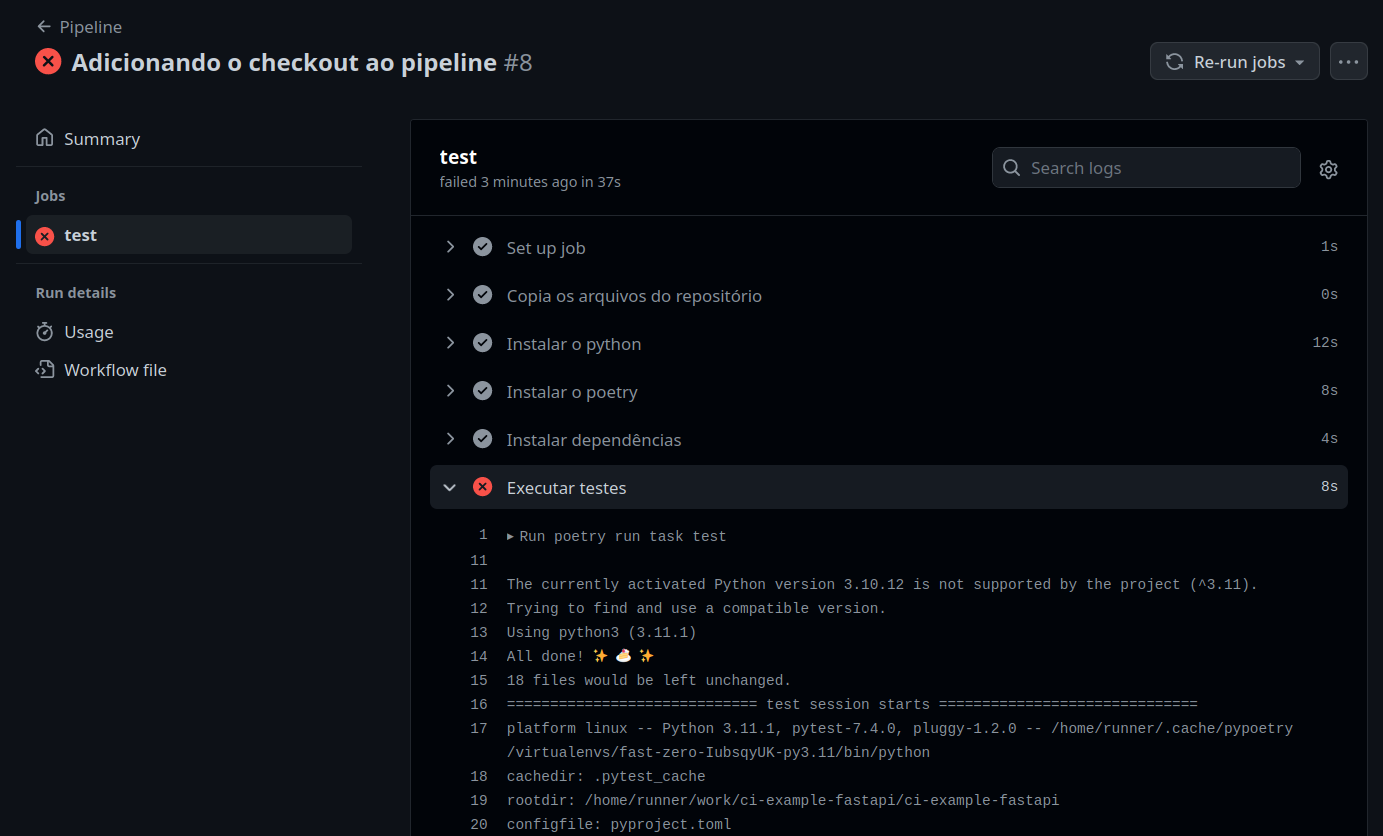
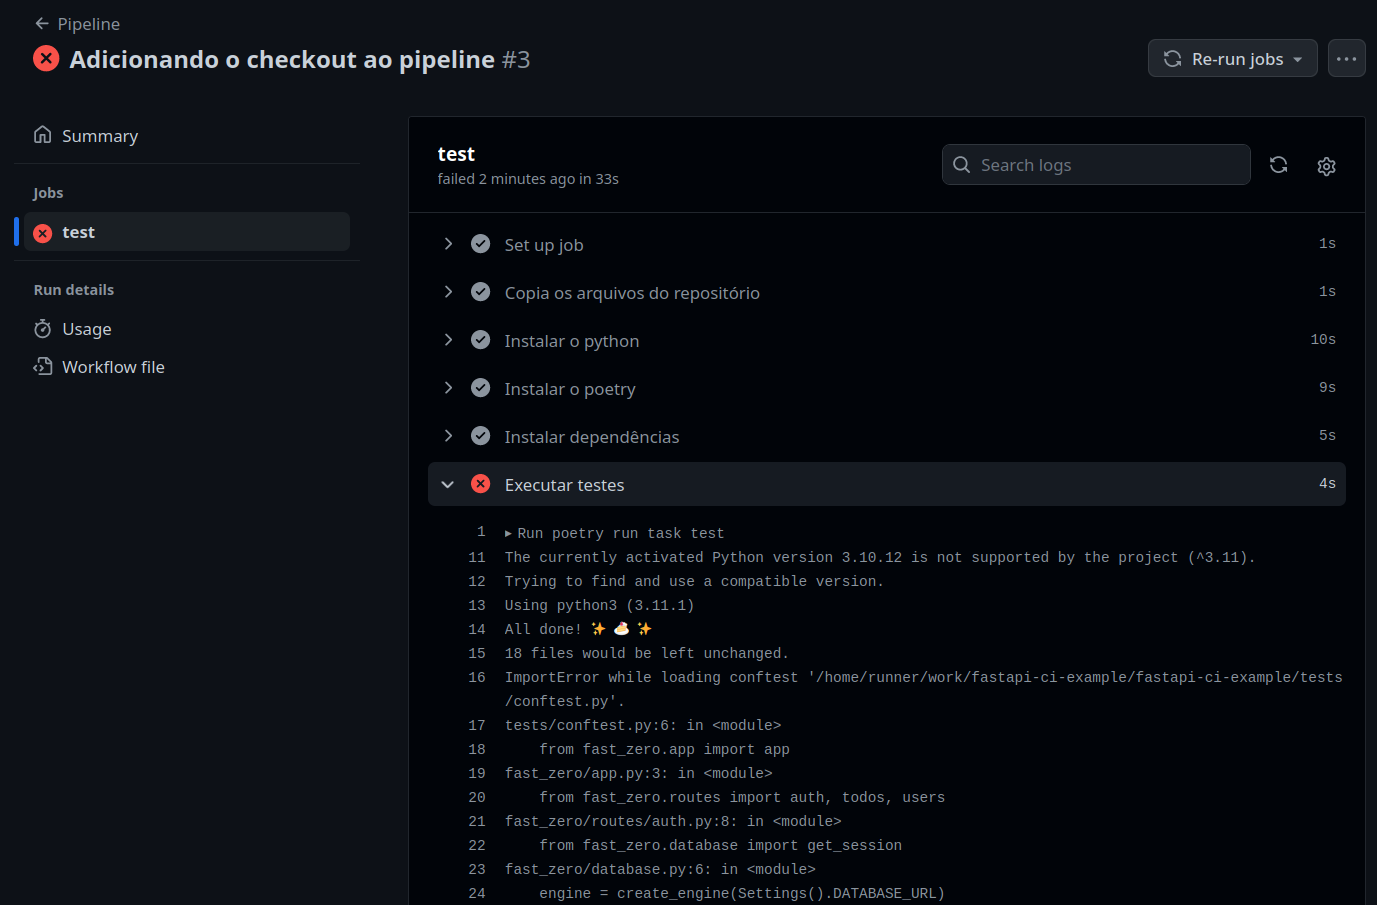
[WIP] - Atualizando as capturas de tela da aula 10
relates #34

diff --git a/aulas/10.md b/aulas/10.md
@@ -1,4 +1,4 @@
-# [WIP] Automatizando os testes com Integração Contínua (CI)
+# Automatizando os testes com Integração Contínua (CI)
 
 Tópico de manutenção: https://github.com/dunossauro/fastapi-do-zero/issues/34
 
@@ -116,7 +116,7 @@ Isso nos mostra que tudo que configuramos no arquivo `pipelines.yaml` foi execut
 
 Agora que temos essa visão geral de como o Actions monta e executa workflows, podemos nos concentrar em construir o nosso ambiente.
 
-### [WIP] Construção do nosso ambiente de CI
+### Construção do nosso ambiente de CI
 
 Para executar nossos testes no workflow, precisamos seguir alguns passos essenciais:
 
@@ -199,8 +199,6 @@ git push
 
 Com isso, o erro anterior deve ser resolvido e teremos os testes sendo executados no workflow:
 
-> Atualizar esse print
-
 ![descrição](assets/10_execucao_dos_testes_com_erro_de_ambiente.png){: .center .shadow }
 
 Após resolver este problema, nos deparamos com outro desafio. Evidenciado no bloco a seguir:
@@ -223,9 +221,13 @@ E     Field required [type=missing, input_value={}, input_type=dict]
 E       For further information visit https://errors.pydantic.dev/2.1.2/v/missing
 ```
 
+??? tip "Erro completo no CI"
+	![Captura de tela da messangem de erro completo no Actions](assets/10_print_do_erro_completo_por_variaveis_de_ambiente.png){: .center .shadow }
+
+
 Ao iniciar a execução dos testes, encontramos um erro relacionado à nossa classe `settings.Settings`. Isso ocorreu porque as variáveis de ambiente necessárias, como `DATABASE_URL`, não estavam definidas no workflow do CI. Este problema é comum quando as variáveis do arquivo `.env`, que utilizamos localmente, não são transferidas para o ambiente de CI.
 
-### [WIP] Configuração de variáveis de ambiente no Actions
+### Configuração de variáveis de ambiente no Actions
 
 Como vimos anteriormente, nossa configuração de CI encontrou um problema devido à ausência de variáveis de ambiente. Para resolver isso, utilizaremos uma funcionalidade dos repositórios do GitHub chamada 'Secrets'. Os 'Secrets' são uma maneira segura de armazenar informações confidenciais, como variáveis de ambiente, de forma criptografada. Eles são acessíveis dentro do nosso workflow, permitindo que o GitHub Actions utilize esses valores sem expô-los publicamente.
 
@@ -242,17 +244,22 @@ gh secret set -f .env
 Este comando pega todas as variáveis de ambiente do arquivo `.env` e as configura como 'Secrets' no seu repositório GitHub.
 
 ??? info "Configurando Secrets pela Interface Web"
-	> Inserir prints dessas operações
-
 	Se preferir configurar 'Secrets' pela interface web do GitHub, siga estes passos:
 
-	1. Acesse Settings no seu repositório GitHub.
-	2. Navegue até Secrets and variables.
-	3. Clique em New repository secret.
-	4. Insira o nome e o valor para cada 'Secret'.
-	5. Salve as alterações.
+	=== "1 - Acesse Settings no seu repositório"
+		Acesse Settings no seu repositório GitHub. Em seguida clique na guia "Secrets and variables". Após isso clique em "New Repository secret":
 
-#### [WIP] Implementação no Arquivo YAML
+		![descrição](/assets/10_passo_1_screts.png){: .center .shadow }
+	=== "2 - Adicione um novo segredo"
+		Para adicionar um novo scregredo no campo `Name` colocamos o nome de um de nossas variáveis de ambientes. No campo `Secret` adicione o valor de uma variável. Como, por exemplo:
+		![descrição](/assets/10_passo_2_secrets.png){: .center .shadow }
+
+		Em seguida clique em `Add secret`.
+	=== "3 - Visualização dos segredos"
+		Após adicionar todos os segredos, sua página de segredos deve se parecer com isso:
+		![descrição](/assets/10_passo_3_com_todas_as_variaveis_adicionadas.png){: .center .shadow }
+
+#### Implementação no Arquivo YAML
 
 Após definir as 'Secrets', o próximo passo é integrá-las ao nosso arquivo de workflow (`.github/workflows/pipeline.yaml`). Aqui, utilizamos uma sintaxe especial para acessar os valores armazenados como 'Secrets'. Cada 'Secret' é mapeado para uma variável de ambiente dentro do job do nosso workflow, tornando esses valores seguros e acessíveis durante a execução do workflow. Vejamos como isso é feito:
 
@@ -272,7 +279,7 @@ Neste trecho de código, a sintaxe `${{ secrets.NOME_DA_VARIAVEL }}` é usada pa
 
 Essa abordagem não só mantém nossos dados confidenciais seguros, mas também nos permite gerenciar configurações sensíveis de forma centralizada, facilitando atualizações e manutenção.
 
-#### [WIP] Atualizando o Workflow
+#### Atualizando o Workflow
 
 Com as 'Secrets' agora configuradas, precisamos atualizar o nosso workflow para incorporar essas mudanças. Isso é feito por meio de um novo commit e push para o repositório, que acionará o workflow com as novas configurações.
 
@@ -284,11 +291,29 @@ git push
 
 A execução do workflow com as novas 'Secrets' nos permitirá verificar se os problemas anteriores foram resolvidos.
 
-> Adicionar print do novo erro do CI
+![descrição](assets/10_print_erro_no_ci_por_nao_econtrar_o_db.png){: .center .shadow }
 
-Como podemos ver, agora os testes começam a ser executados, porém, eles falham por não encontrar o banco de dados disponível. Para isso teremos que partir para a configuração do postgres no workflow.
+Como podemos ver, agora os testes começam a ser executados, porém, eles falham por não encontrar o banco de dados disponível.
 
-## [WIP] Adicionando serviços ao Github Actions
+```shell title="$ Execução no terminal!"
+======================= short test summary info ========================
+ERROR tests/test_app.py::test_root_deve_retornar_200_e_ola_mundo - sqlalchemy.exc.OperationalError: (psycopg2.OperationalError) connection to server at "localhost" (::1), port 5432 failed: Connection refused
+	Is the server running on that host and accepting TCP/IP connections?
+connection to server at "localhost" (127.0.0.1), port 5432 failed: Connection refused
+	Is the server running on that host and accepting TCP/IP connections?
+
+(Background on this error at: https://sqlalche.me/e/20/e3q8)
+!!!!!!!!!!!!!!!!!!!!!!!!!! stopping after 1 failures !!!!!!!!!!!!!!!!!!!!!!!!!!!
+===================== 1 warning, 1 error in 0.98s ======================
+```
+
+> Explicar esse erro
+> `Is the server running on that host and accepting TCP/IP connections?`
+
+
+Para isso teremos que partir para a configuração do postgres no workflow.
+
+##  Adicionando serviços ao Github Actions
 
 Um 'serviço' no contexto do GitHub Actions é tipicamente um contêiner Docker que é iniciado junto com o nosso workflow. Esses serviços podem incluir bancos de dados, caches, ou qualquer outra dependência externa que nosso aplicativo possa precisar durante a execução do CI.
 
@@ -324,7 +349,7 @@ git commit -m "Adicionando o serviço do postgres no CI"
 git push
 ```
 
-> Adicionar aqui um print do CI sendo executado com sucesso
+![descrição](assets/10_print_ci_rodando_com_sucesso.png){: .center .shadow }
 
 Este sucesso indica que nosso pipeline agora está corretamente configurado com o PostgreSQL, preparando o terreno para que cada push ou pull request no nosso repositório seja validado em um ambiente que espelha de perto nossa configuração de produção.
 
